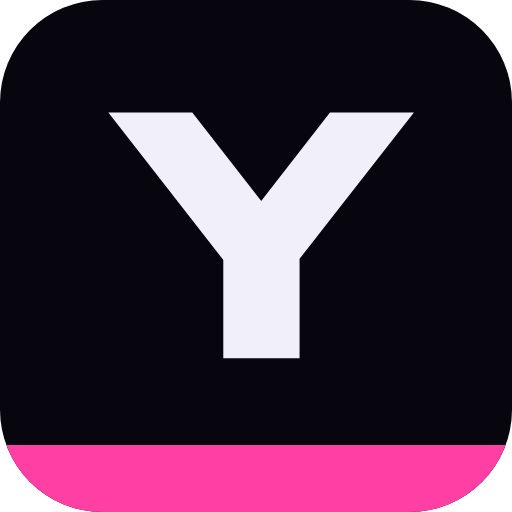
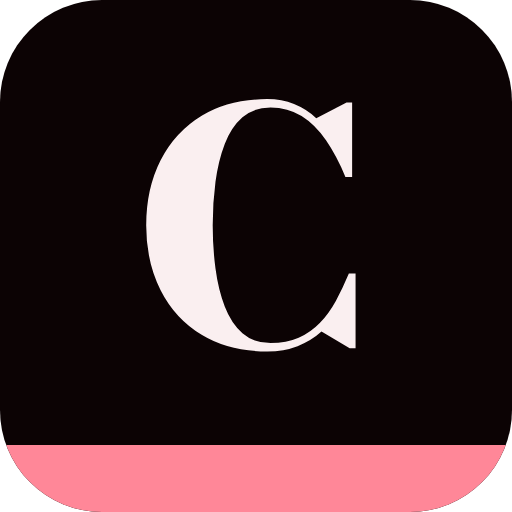
feat: set up Cilla Hex from the band site template (/init-band, 2026-11-19)
Identity, tagline and description for Cilla Hex (a fictional act), site URL https://cilla.jazzsequence.com. Features: lyrics and press on; tour, merch and map off. Provisional palette (generated, passes the contrast gate) and provisional typefaces (Bodoni Moda headings, Courier Prime body), both to be replaced by the Storybook trial. The band's CLAUDE.md and README replace the template's; the theme, fonts module, placeholder images, icons and social card are regenerated. No hosting recorded yet (Pantheon site, P1 site, audio host and secrets to follow). Local-only notes and source material stay in the gitignored docs/ and images/.

Changed region(s): [[0.2188, 0.1875, 0.8125, 0.7188], [0.0, 0.8438, 1.0, 1.0], [0.6562, 0.1875, 0.6875, 0.2188]]

diff --git a/design-system/theme.generated.css b/design-system/theme.generated.css
@@ -5,31 +5,31 @@
  */
 @theme {
   /* Surfaces */
-  --color-void: #07050d;
-  --color-surface: #0e0a18;
-  --color-raised: #17112a;
-  --color-line: #2c2250;
+  --color-void: #0c0304;
+  --color-surface: #18080a;
+  --color-raised: #250e11;
+  --color-line: #502229;
 
   /* Text */
-  --color-text: #f5f0ff;          /* 17.4:1 on surface, 16.3:1 worst case */
-  --color-muted: #b9aed6;         /* 9.3:1 on surface, 8.7:1 worst case */
-  --color-dim: #8f84ad;           /* 5.6:1 on surface, 5.2:1 worst case */
+  --color-text: #fceeef;          /* 17.2:1 on surface, 16.1:1 worst case */
+  --color-muted: #d6b4b7;         /* 10.2:1 on surface, 9.6:1 worst case */
+  --color-dim: #af8a8e;           /* 6.3:1 on surface, 5.9:1 worst case */
 
   /* Accents, by role. accent is the primary (kickers, primary action), accent-2 links and labels,
      accent-3 focus and secondary actions. Components never name a hue. */
-  --color-accent: #ff3fa4;        /* 6.0:1 on surface, 5.6:1 worst case */
-  --color-accent-2: #a98bff;      /* 7.2:1 on surface, 6.8:1 worst case */
-  --color-accent-3: #3ef0ff;      /* 14.0:1 on surface, 13.1:1 worst case */
+  --color-accent: #ff8798;        /* 8.5:1 on surface, 7.9:1 worst case */
+  --color-accent-2: #ffa18f;      /* 9.9:1 on surface, 9.3:1 worst case */
+  --color-accent-3: #ffc29d;      /* 12.4:1 on surface, 11.7:1 worst case */
 
   /* Metal (metallic neutral). metal-mid is the gradient's bright third stop. */
-  --color-metal-hi: #f1effa;      /* 17.1:1 on surface, 16.0:1 worst case */
-  --color-metal-lo: #8d8aa6;      /* 5.8:1 on surface, 5.4:1 worst case */
-  --color-metal-mid: #d9d6ea;     /* 13.7:1 on surface, 12.8:1 worst case */
+  --color-metal-hi: #faeff0;      /* 17.3:1 on surface, 16.2:1 worst case */
+  --color-metal-lo: #977f81;      /* 5.2:1 on surface, 4.9:1 worst case */
+  --color-metal-mid: #e4d2d4;     /* 13.4:1 on surface, 12.5:1 worst case */
 
   /* Type, by role, from band.config.json. The wordmark and kicker faces are optional; when off, those roles use
      the display face, so components never need to know which was chosen. */
-  --font-display: "Encode Sans Expanded", system-ui, sans-serif;
-  --font-body: "Space Grotesk Variable", system-ui, sans-serif;
+  --font-display: "Bodoni Moda Variable", ui-serif, Georgia, serif;
+  --font-body: "Courier Prime", ui-monospace, monospace;
   --font-wordmark: var(--font-display);
   --font-kicker: var(--font-display);
 

diff --git a/design-system/fonts.ts b/design-system/fonts.ts
@@ -3,7 +3,6 @@
  * Self-hosted font files (Fontsource), one import per file the site uses. Import this once from each entry point
  * (Storybook preview and the site layout) rather than from ds.css, so the bundler resolves the font URLs itself.
  */
-import "@fontsource/encode-sans-expanded/600.css";
-import "@fontsource/encode-sans-expanded/700.css";
-import "@fontsource/encode-sans-expanded/800.css";
-import "@fontsource-variable/space-grotesk";
+import "@fontsource-variable/bodoni-moda";
+import "@fontsource/courier-prime/400.css";
+import "@fontsource/courier-prime/700.css";

diff --git a/CLAUDE.md b/CLAUDE.md
@@ -1,23 +1,24 @@
 # CLAUDE.md
 
-<!-- template:intro:start -->
-Band site template. Next.js 16 + P1 (Puck), deployed to Pantheon. Everything band-specific comes from `band.config.json` (identity, which
-sections exist, type choices, palette, the location of the local off-limits notes, hosting) plus content files under `data/` and `content/`.
-It ships with a clearly fake placeholder band ("Your Band") that a new band overwrites; it came out of a production site, whose
-palette survives only as the generator's regression fixture.
+Cilla Hex (a fictional act). Lo-fi goth, synth-punk. Next.js 16 + P1 (Puck), deployed to Pantheon.
+Everything band-specific comes from `band.config.json` (identity, which sections exist, type choices, palette, hosting, the location of the local
+off-limits notes) plus content files under `data/` and `content/`.
 
 **Editorial rule.** Public copy, metadata, alt text, code comments and docs must never state or hint at anything the band's off-limits list marks.
-The list lives in the gitignored file named by `editorial.offLimitsFile` in `band.config.json` (default `docs/off-limits.md`), never in a committed file,
-because the list itself would give the topics away. The reviewer checks every commit against it. Keep backstory out of everything committed.
+The list lives in the gitignored file named by `editorial.offLimitsFile` in `band.config.json` (`docs/off-limits.md`), never in a committed file,
+because the list itself would give the topics away. It has 4 entries. The reviewer checks every commit against it. Keep backstory out of everything committed.
 
-## First run
+## Setup decisions
 
-`band.config.json` has `"setup": { "initialized": false }` in the template. **If it is false, this repo is still the placeholder band: run the `/init-band` skill
-(`.claude/skills/init-band/`) before doing anything else, and do not edit around the placeholder.** It asks about the band in batches (identity, look,
-type, features and audio, hosting), proposes palettes with real contrast ratios, writes `band.config.json`, regenerates the theme, images and icons, writes the
-local off-limits notes, installs the example workflows, and rewrites this file for the band. Secrets are never collected in chat: it hands you commands that prompt
-for each value. It sets `setup.initialized` to true when it is done, and removes this section and the other template-only text from this file.
-<!-- template:intro:end -->
+Recorded by `/init-band` on 2026-11-19. Change them in `band.config.json` (then `pnpm theme` if the palette or type changed), not here; this list is the why.
+
+- **Band:** Cilla Hex, a fictional act (pages never present it as real). Demos made alone while the band is on pause.
+- **Sections on:** Lyrics, Press. **Off:** Tour and tickets, Merch, Tour map; their routes return 404 and they drop out of the nav, sitemap and `llms.txt`.
+- **Type:** headings in Bodoni Moda (variable), body in Courier Prime; the wordmark uses the display face; kickers use the display face.
+- **Palette:** see `band.config.json`; the gate needed no adjustments.
+- **Hosting:** Pantheon site not set yet; P1 site not set yet; audio host not set yet (`NEXT_PUBLIC_AUDIO_BASE_URL`).
+- **Workflows installed:** none yet (the examples are in `examples/workflows/`).
+- Secrets are never in files; see "Secrets on Pantheon" below for how each is set.
 
 ## Commit review (reviewer agent)
 
@@ -101,12 +102,10 @@ How this fits the rest of this file:
   `data/tour.json` and `data/merch.json` (fallbacks), `content/lyrics/*.md` (frontmatter `title`/`album`/`track`, `### Label` sections), `content/press/article.md`.
   To add a song: add it to `data/albums.json`, upload `<album>/<NN>-<slug>.m4a` to the bucket, add `content/lyrics/<slug>.md` if it has lyrics.
   P1 pages render inside the `(site)` layout (the catch-all lives under it). That layout supplies the header, footer and player, so a P1 page needs no header or footer block (an Article-only page like `/press` has both). The editor canvas has no layout, so `puckRoot.render` (`components/puck/root.tsx`) wraps the page in the real `SiteHeader` and `SiteFooter` there only (`puck.isEditing`), locked with `inert`, so pages can be built as they will look; on the public site the root adds nothing, so they never double up.
-<!-- template:placeholders:start -->
-- **Placeholders.** The seeded band, albums, shows, lyrics, merch and article are deliberately neutral. Images are solid-colour PNGs in the palette (`node scripts/make-placeholder-images.mjs`:
-  cover, wide, merch, portrait); icons and the social card are drawn from the band name and palette, in the wordmark face (or the display face as typed) from its static Fontsource files, so `pnpm install` must have run (`node scripts/make-brand-assets.mjs`). Both read the generated theme, so run `pnpm theme` first
-  after changing the palette. The card (`public/og-default.jpg`, a JPEG because a photo as PNG is megabytes) is the name on a gradient unless the script is given the band's hero photo (`--hero public/images/<file>`, optionally `--focus <x%>,<y%>`; arguments in `lib/theme/og-card.ts`), which puts it behind the name under a fade of the surface colour. The script does not remember the photo, so a re-theme (`/init-band` runs it with no arguments) goes back to the plain card until it is run again with `--hero`. The seeded tour has one on-sale and one sold-out date so both ticket pages stay covered by tests; the ticket flow (`/tickets/[id]` -> `/ticket?...`) keeps all state in the URL and
-  collects nothing. If the band is real, tour venues must be checked against a source before they are added; if it is fictional, say so in `band.fictional` and never present dates as real.
-<!-- template:placeholders:end -->
+- **Placeholder content.** The albums, shows, lyrics, merch, bio and press article are still the template's neutral samples until the band replaces them (`CONTENT.md` says where). Once the band's own content is in, run the `/init-p1-pages` skill: it creates the site's P1 pages from the repo as drafts (it never publishes; publishing a page in P1 is the go-live step and the owner's).
+  Images are solid-colour PNGs in the palette (`node scripts/make-placeholder-images.mjs`); icons and the social card are drawn from the band name and palette, in the wordmark face (or the display face as typed) from its static Fontsource files, so `pnpm install` must have run
+  (`node scripts/make-brand-assets.mjs`). Both read the generated theme, so run `pnpm theme` first after changing the palette. The card is the name on a gradient until the band's hero photo is added: `node scripts/make-brand-assets.mjs --hero public/images/<file>` (optionally `--focus <x%>,<y%>`; `CONTENT.md` has the details), and it must be run that way again after any re-theme. The seeded tour has one on-sale and one sold-out date
+  so both ticket pages stay covered by tests; the ticket flow (`/tickets/[id]` -> `/ticket?...`) keeps all state in the URL and collects nothing. Tour dates are fictional and must never be presented as real.
 - **Tour map (`TourMap` in the design system; MapLibre GL + OpenStreetMap raster tiles).** It starts as text (each venue and its
   address, no links out) and loads MapLibre and the tiles only when the visitor clicks "Show map", so by default nothing is requested and nothing
   about the visitor leaves the site. MapLibre 6 ships its web worker as two separate files that neither Turbopack nor Vite emits, so
@@ -179,16 +178,12 @@ Show map. A published P1 `/privacy` page is a separate copy, so any later change
 
 - `test-pantheon.yml`: lint, typecheck, unit, build, accessibility (Playwright + axe), all on the runner with placeholder credentials. Nothing here needs a Pantheon environment or secrets; the deployed-site check is its own workflow (below). Storybook is built only by `storybook-preview.yml` (every PR), not here.
 - `promote-pantheon.yml`: push to `test` or `live` branch tags `pantheon_test_N` / `pantheon_live_N`.
-<!-- template:workflow-sync:start -->
-- `examples/workflows/sync-puck-registry.yml`: inactive example (GitHub only runs `.github/workflows/`) of the headless registry sync. The template has no P1 site, so it would fail every push touching `components/puck/**`. A site built from the template installs it once it has its own P1 site and secrets `CSS_BASE_URL`, `CSS_SITE_ID`, `CSS_REGISTRY_API_KEY` (per site, never another site's); the `/init-band` skill is meant to do this. Skipped for Dependabot pushes (its runs see only Dependabot secrets, and it never edits the registry). Until installed, sync with `pnpm sync:registry` locally or the P1 MCP `sync_components`.
-<!-- template:workflow-sync:end -->
+- `examples/workflows/sync-puck-registry.yml`: not installed (no P1 site recorded yet). Install it once the site has its own P1 site and the three secrets; until then use `pnpm sync:registry` or the P1 MCP `sync_components`.
 - `storybook-preview.yml`: per-PR preview at `https://<owner>.github.io/<repo>/pr-N/` (gh-pages; needs
   Pages enabled, which needs a public repo or paid plan). Both jobs that push `gh-pages` (publish, and cleanup on close) share one concurrency group with `queue: max`, because two runs pushing it at once reject each other and fail the required check (it happened on a sister site, on two PRs two minutes apart). `queue: max` is what stops a waiting run from being cancelled by the next one; the plain default would drop previews.
 - Repo secrets: `PANTHEON_MACHINE_TOKEN` (also as a Dependabot secret; a Pantheon personal access token, which expires 90 days after it is created, so replace both copies before then: SETUP.md step 0a) for `promote-pantheon.yml` and the deployed-site check, plus the three registry-sync secrets when that workflow is installed. The always-on CI checks run on placeholders and need none.
 - `dependabot.yml`: weekly (Monday) npm and GitHub Actions updates, minor and patch grouped, a 14-day cooldown (the "no release under two weeks old" rule; it applies to version updates only, security updates bypass it). TypeScript 7 and ESLint 10 are ignored, with the blockers copied from a sister site on the same stack: not re-tested here, so lift an entry by trying the update on a PR environment. A `versions:` ignore also hides security-update PRs for that range, so keep Dependabot alerts enabled (a repo setting, not in this file). Dependabot PRs are ordinary PRs into `main`: squash-merge them. `@pantheon-systems/nextjs-cache-handler` is deliberately not ignored (owner's call). A sister site keeps live on 0.9.0 after 0.11.0 took its live site down on a large cache, whereas `cacheHandler.mjs` here has an unbounded initialise, so revisit if live shows restarts.
-<!-- template:workflow-deploy:start -->
-- `examples/workflows/test-deployed-site.yml`: an inactive example (GitHub only runs `.github/workflows/`) of the check the template dropped: wait for Pantheon to build `pr-N`/`dev`, then expect 200. A site built from the template installs it once the Pantheon site and `PANTHEON_MACHINE_TOKEN` (Actions and Dependabot secrets) exist; the `/init-band` skill is meant to do this. Its header lists the steps. Add it as a required check only after it passes.
-<!-- template:workflow-deploy:end -->
+- `examples/workflows/test-deployed-site.yml`: not installed. Copy it to `.github/workflows/`, set `PANTHEON_SITE_NAME`, and add `PANTHEON_MACHINE_TOKEN` (Actions and Dependabot) to turn it on.
 
 ## Palette
 

diff --git a/README.md b/README.md
@@ -1,99 +1,25 @@
-# Band site template
+# Cilla Hex
 
-A website for a band, real or fictional, that you can have running end to end without writing code: tour dates and
-tickets, music with a persistent player, lyrics, albums, press, bio and merch. Built with Next.js 16, edited in
-[P1](https://content.pantheon.io) with Puck, and hosted on Pantheon. Dark theme only,
-WCAG 2.2 AA, no cookies, no analytics.
+Demos made alone while the band is on pause.
 
-Everything about the band lives in one file, `band.config.json`: its name, which sections exist, its type choices and its
-colour palette. A script turns the palette into the theme and refuses any text colour that would fail contrast.
+Cilla Hex, singer of Dead Prom Queens, steps out on her own. The band is on pause. She isn't.
 
-## Start a site
+_This is a fictional act; nothing here is a real band, show or release._
 
-1. **Create a repository from this template** ("Use this template" on GitHub, or
-   `gh repo create my-band --template jazzsequence/band-site-template --public`), clone it, and run `pnpm install`.
-2. **Open it in [Claude Code](https://claude.com/claude-code) and run `/init-band`.** It asks about the band in batches
-   (identity, look, type, sections, hosting), proposes palettes with their contrast ratios, writes the config, theme,
-   placeholder images, icons and social card, installs the CI workflows, and rewrites `CLAUDE.md` and this README for the
-   band. It never asks you to paste a secret: it gives you commands that read each key from a hidden prompt.
-3. **Follow [SETUP.md](SETUP.md)** for the Pantheon site, the P1 site and keys, the audio bucket, and the GitHub settings the
-   workflows need.
-4. **Replace the sample content** (albums, shows, merch, lyrics, press, bio) using [CONTENT.md](CONTENT.md), and publish
-   your pages in P1.
+Built with Next.js 16, edited with [P1](https://content.pantheon.io) and Puck, and hosted on Pantheon. Live at https://cilla.jazzsequence.com.
 
-Without Claude Code you can do step 2 by hand: edit `band.config.json` (set `setup.initialized` to `true`), run
-`pnpm theme`, and see `.claude/skills/init-band/SKILL.md` for everything the skill would have done.
-
-The template ships a clearly fake band, "Your Band", with sample albums, two shows and placeholder images so every page and
-test has something to render.
-
-## What you get
-
-| Route | What it is |
-|---|---|
-| `/` | Home: latest release, next tour dates, albums |
-| `/tour`, `/tickets/[id]`, `/ticket` | Tour dates, a demonstration checkout, and an e-ticket with a QR code. Nothing is stored; ticket details live in the URL |
-| `/listen`, `/albums`, `/albums/[slug]` | Streaming and downloads, and one page per album |
-| `/lyrics`, `/lyrics/[slug]` | Every lyric |
-| `/press`, `/bio`, `/merch`, `/privacy` | Press article, bio, merchandise, privacy policy |
-| `/p1` | The page editor (sign-in required) |
-
-The tour, merch, lyrics, press and the tour map can each be switched off in `band.config.json`; a switched-off section drops out of
-the navigation, sitemap and `llms.txt`, and its routes return 404. The typefaces (headings, body, and optionally a wordmark and a kicker face)
-are choices in the same file; any font in the Fontsource catalogue works, and `/init-band` picks them with you. Audio keeps playing while you move around the site.
-
-## Commands
-
-Requires Node per `.nvmrc` and pnpm.
+## Working on it
 
 | Command | Purpose |
 |---|---|
+| `pnpm install` | Install (Node per `.nvmrc`, pnpm) |
 | `pnpm dev` | Development server (copy `.env.example` to `.env` first; it regenerates the theme) |
-| `pnpm lint`, `pnpm typecheck`, `pnpm test` | Lint, types and unit tests |
-| `pnpm build` | Production build (standalone output, as Pantheon runs it) |
-| `pnpm test:e2e` | Playwright accessibility, keyboard and navigation checks against the build. Build first and make sure nothing is listening on port 3100. First time: `pnpm exec playwright install chromium` |
-| `pnpm theme` | Regenerate `design-system/theme.generated.css` from the palette in `band.config.json`; a palette whose text colours cannot reach WCAG AA is repaired (same hue) or rejected |
-| `pnpm init-band <command>` | The helper behind `/init-band`: `status`, `suggest-palette`, `check-palette`, `apply` |
-| `pnpm storybook`, `pnpm build-storybook` | The design system |
-| `pnpm sync:registry` | Push the Puck component registry to P1 (needs the registry secrets) |
+| `pnpm lint`, `pnpm typecheck`, `pnpm test` | Checks required before a change |
+| `pnpm build`, `pnpm test:e2e` | Production build, then axe, keyboard and navigation tests against it |
+| `pnpm theme` | Regenerate the theme after changing the palette in `band.config.json` |
+| `pnpm storybook` | The design system |
 
-## How it is put together
-
-- **The band:** `band.config.json`, validated by `lib/band/config.ts`. Components read it and never hard-code a name or colour.
-- **Colour:** thirteen roles in the config; `lib/theme/` generates the theme and enforces 4.5:1 contrast. Components use roles
-  (`accent`, `accent-2`, `accent-3`, `metal`), never hues, and a test fails if a hue-named token comes back.
-- **Content:** albums, tour, merch and lyrics are files in `data/` and `content/`; pages are edited in P1 and fall back to the repo
-  copy if P1 is unreachable. Audio is in a Cloudflare R2 bucket, never in git.
-- **Design changes** go on a `design-<topic>` branch into a protected `design` branch, and the owner merging that pull request is the
-  approval. Every pull request gets a Storybook preview.
-- **Commits** go through a reviewer agent and a pre-commit hook (tests, lint, types, build). `CLAUDE.md` records the architecture
-  and the reasons behind it.
-
-## CI that needs no secrets
-
-The checks that run on every pull request need no secrets and no Pantheon site: lint, types, unit tests, a production build with
-placeholder credentials, and the end-to-end accessibility suite. Two more workflows are inactive examples in `examples/workflows/`
-(a deployed-site check and the headless registry sync) because they need a site that exists; `/init-band` installs them once it
-has the facts.
-
-## Layout
-
-```
-app/(site)/          public pages and their shared layout (header, footer, player)
-app/p1/              the P1 editor and its API and auth routes
-band.config.json     the band: identity, sections, type, palette, hosting
-components/site/     site-specific client components (player, ticket form, breadcrumbs)
-components/puck/     P1 blocks (band blocks in components/puck/band/)
-design-system/       tokens, components, stories
-lib/band/  lib/theme/  lib/init/   config, theme generator, the /init-band engine
-lib/site/            catalogue, lyrics, tour, audio listing, SEO helpers
-data/  content/      albums, tour, merch, lyrics, press (see CONTENT.md)
-e2e/                 Playwright tests
-scripts/             theme, placeholder-image, icon and init generators; registry sync
-examples/workflows/  CI workflows a site installs once it has a Pantheon and P1 site
-.claude/skills/      the /init-band skill
-```
-
-## Licence
-
-MIT. See [LICENSE](LICENSE).
+- **Hosting, secrets and the first deploy** are in [SETUP.md](SETUP.md).
+- **The band itself** (name, tagline, sections, type, palette, hosting) is `band.config.json`.
+- **Content** (albums, tour dates, merch, lyrics, press) is files in `data/` and `content/`, plus pages edited in P1: see [CONTENT.md](CONTENT.md).
+- **Architecture, workflows and the reasons behind them** are in [CLAUDE.md](CLAUDE.md).
